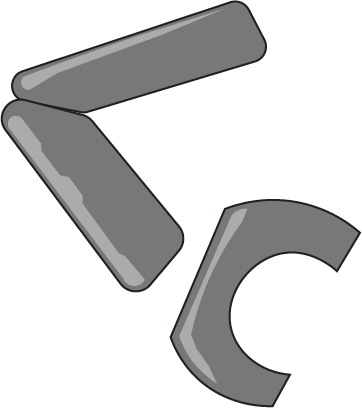
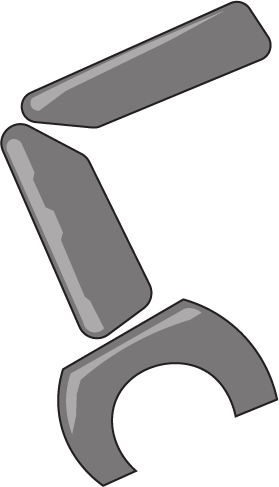
front end stuff

diff --git a/public/index.js b/public/index.js
@@ -1,6 +1,7 @@
 import { getResponse, getGiphy } from './util/helper-functions.js';
 const form = document.getElementById('form')
 const response = document.getElementById('response');
+// const textBox = document.getElementById('text-box')
 
 form.addEventListener('submit', event => {
   event.preventDefault();
@@ -13,17 +14,18 @@ form.addEventListener('submit', event => {
       const botResponse = receivedResponse[0].content;
       console.log(botResponse);
       if(botResponse.includes('giphy')) {
-        const giphyId = botResponse.slice(23, botResponse.length);
+        const giphyId = botResponse.slice(23, botResponse.length - 1);
         getGiphy(giphyId)
           .then(gifData => {
             const giphyImage = document.createElement('iframe');
             giphyImage.src = gifData.data.embed_url;
-            giphyImage.width = gifData.data.images.original.width;
-            giphyImage.height = gifData.data.images.original.height;
+            giphyImage.border = 0;
+            giphyImage.width = gifData.data.images.downsized_small.width;
+            giphyImage.height = gifData.data.images.downsized_small.height;
             response.append(giphyImage);
           })
       }
-      if(botResponse.includes('spotify')){
+      else if(botResponse.includes('spotify')){
         const spotifyPlayer = document.createElement('iframe');
         spotifyPlayer.src = botResponse.slice(0, 25) + 'embed/' + botResponse.slice(25);
         spotifyPlayer.width = 300;
@@ -35,9 +37,12 @@ form.addEventListener('submit', event => {
         response.append(spotifyPlayer);
       }
       else {
+        const textBox = document.createElement('div')
+        textBox.classList.add('text-box');
         const p = document.createElement('p');
         p.innerHTML = botResponse;
-        response.append(p);
+        textBox.append(p);
+        response.append(textBox);
       }
     })
 })

diff --git a/public/index.html b/public/index.html
@@ -4,19 +4,25 @@
   <meta charset="UTF-8">
   <meta name="viewport" content="width=device-width, initial-scale=1.0">
   <meta http-equiv="X-UA-Compatible" content="ie=edge">
+  <link href="https://fonts.googleapis.com/css?family=Amatic+SC&display=swap" rel="stylesheet">
   <link rel="stylesheet" href="src/main.css">
   <title>HeartbotBB</title>
 </head>
 <body>
+
   <header>
+
     <img src="assets/heartBot-Logo.png" class="logo" alt="site-logo">
-    <h1>HeartbotBB</h1>
-    <img src="assets/twitter-red.png" class="twitter-icon">
+    <a href="https://twitter.com/heartbotbb" target="blank">
+    <div class="header-flex">
+        <img src="assets/twitter-red.png" class="twitter-icon">
+        <p>@heartbotBB</p>
+      </div>
+    </a>
+
   </header>
 
   <main>
-
-      <!-- <iframe src="https://open.spotify.com/embed/track/6CcJMwBtXByIz4zQLzFkKc" width="300" height="380" frameborder="0" allowtransparency="true" allow="encrypted-media"></iframe> -->
 
     <h2>I'm feeling...</h2>
     <form id="form">
@@ -27,15 +33,14 @@
             <option value="mad">Mad</option>
             <option value="weak">Weak</option>
             <option value="bitter">Bitter</option>
-         </select>
-      
+         </select><br>
           <button id="cheer-button">Cheer me up :)</button>
     </form>
     <img class="robot-head" src="assets/robot-head.png">
     <div id="robot-wrapper">
       <img class="robot-left-arm" src="assets/left-arm.png">
       <div id="response">
-        <div id="giphy-box"></div>
+        <div id="text-box" class="hidden"></div>
       </div>
       <img class="robot-right-arm" src="assets/right-arm.png">
     </div>

diff --git a/public/src/main.css b/public/src/main.css
@@ -8,10 +8,43 @@ main {
 }
 
 header {
+  width: 85%;
   display: flex;
   justify-content: space-between;
   align-items: center;
   padding: 0px 30px 0px 30px;
+}
+
+h2 {
+  text-align: center;
+  /* display: inline; */
+}
+
+form {
+  /* display: inline-block; */
+  text-align: center;
+  margin-bottom: 50px;
+}
+
+button {
+  padding: 15px 15px;
+  color: white;
+  background-color:#db3850;
+  margin-top: 20px;
+  text-transform: uppercase;
+  border-radius: 5px;
+}
+
+.header-flex {
+  display: flex;
+  align-items: center;
+}
+
+a {
+  text-decoration: none;
+  color: black;
+  font-family: 'Amatic SC', cursive;
+  font-size: 25px;
 }
 
 #robot-wrapper {
@@ -29,16 +62,16 @@ header {
 }
 
 .robot-left-arm {
-  margin-right: -30px;
-  height: 10%;
-  width: 10%;
-  z-index: 1;
+  margin-right: -10px;
+  height: 8%;
+  width: 8%;
+  /* z-index: 1; */
 }
 
 .robot-right-arm {
-  margin-left: -24px;
-  height: 9%;
-  width: 9%;
+  margin-left: -10px;
+  height: 8%;
+  width: 8%;
 }
 
 .robot-feet {
@@ -55,15 +88,29 @@ header {
 }
 
 .logo {
-  height: 150px; 
+  height: 115px; 
   width: auto;
   padding: 15px 15px;
 } 
 
-#response {
-  width: 300px;
-  height: 380px;
+.hidden {
+  display: none;
+}
+
+.text-box {
+  display: flex;
+  align-items: center;
+  justify-content: center;
+  width: 375px;
+  height: 275px;
+  font-size: 20px;
+  padding: 20px 40px;
+  text-align: center;
+  vertical-align: middle;
+  font-family: 'Amatic SC', cursive;
   background-color: #eee;
-  z-index: -1;
+  font-size: 35px;
+  /* border: 1px solid #eee; */
+  /* z-index: -1; */
   /* margin-top: 20px; */
 }
